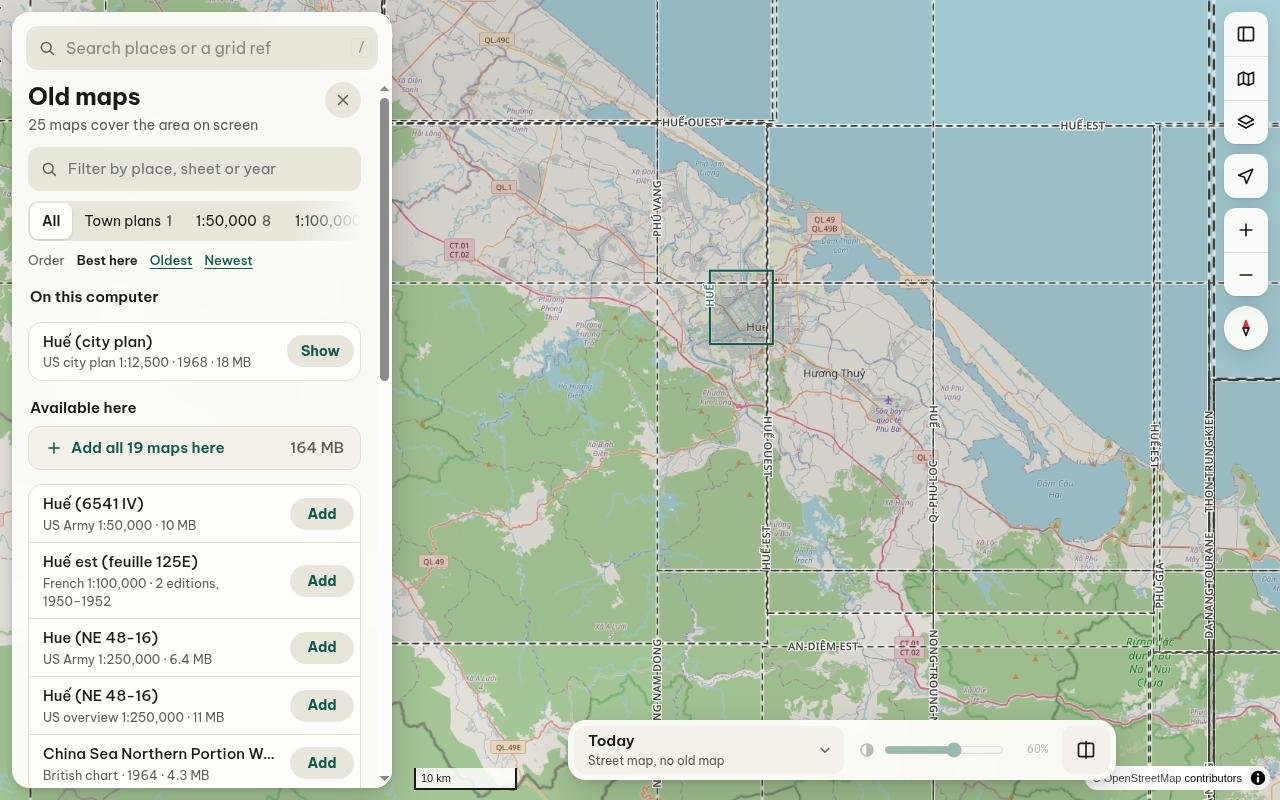
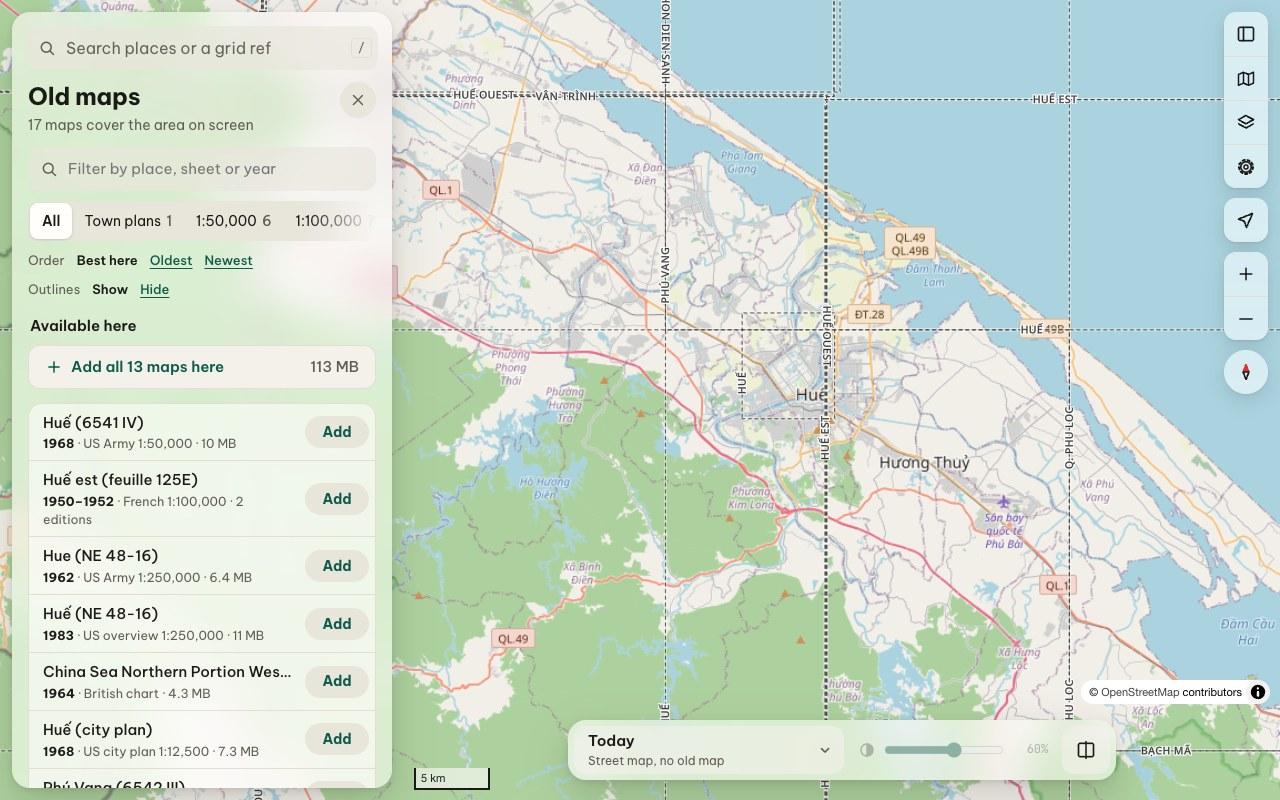
Update README and refresh screenshots for 0.2.0

diff --git a/README.md b/README.md
@@ -18,6 +18,11 @@ on your own computer and opens in its own window.
 - Swipe between any two maps side by side
 - Add your own old maps: a GeoTIFF or GeoPDF is placed for you, and a scan or photo is placed by
   clicking matching spots on it and on today's map
+- Adjust the alignment and scale of any installed old map (or uploaded GeoTIFF or GeoPDF) against
+  today's map using the same two-pane Placement screen, and reset to the original at any time
+- Navigate with Apple Maps-style trackpad gestures (two-finger pan and pinch-to-zoom, plus macOS
+  Force Touch feedback and Force Click shortcuts), with idle preloading of nearby old-map tiles
+  for smoother panning and zooming
 - Search by place name or by a wartime grid reference such as `WS683427`
 - Public war-era records: air strikes, aircraft losses, casualty records, hamlets, bases, battles
 - Every record shows the coordinate as its source wrote it, how far off it could be, and a link
@@ -124,6 +129,17 @@ at the top of the list.
 
 ![The Old maps list open beside the map, with outlines on the map showing where each old map lies](docs/images/add-old-maps.jpg)
 
+Use **Outlines** inside **Old maps** to show or hide sheet boundaries on the map, **Map style**
+(the folded-map button at the top right) to switch between today's street map and satellite view,
+and **Settings** (the gear button) to change appearance theme, scrolling mode (**Automatic**,
+**Trackpad**, or **Mouse wheel**), manage your Kaggle key, add your own maps (**My maps**), or
+check disk usage.
+
+If a historical map is noticeably offset against modern roads or rivers, open its info card (or
+select it in **Old maps** / **My maps**), click **Adjust alignment**, pin at least three matching
+landmarks against today's map, and click **Save alignment** to rebuild its tiles locally (or
+**Reset to original** to revert).
+
 The bar at the bottom switches between the maps you've added, and its slider fades the old map in
 and out. The button at the right end splits the screen so you can drag between two maps. This is
 Cao Lãnh in 1873 and in 1965:
@@ -155,7 +171,9 @@ licences and credits.
 ## Accuracy and limits
 
 Old maps don't sit perfectly on new ones. The 1960s US sheets are within about 50 m and the
-1:250,000 sheets within 100 to 200 m. The older French maps can be out by hundreds of metres.
+1:250,000 sheets within 100 to 200 m. The older French maps can be out by hundreds of metres. If an
+installed sheet is off in an area you care about, **Adjust alignment** lets you match landmarks to
+today's map and rebuild its tiles locally (**Reset to original** restores the shipped alignment).
 
 Wartime grid references were read off maps drawn on the Indian 1960 datum, a few hundred metres
 from the grid a GPS uses. Map Vietnam assumes Indian 1960 for any grid reference you type and
